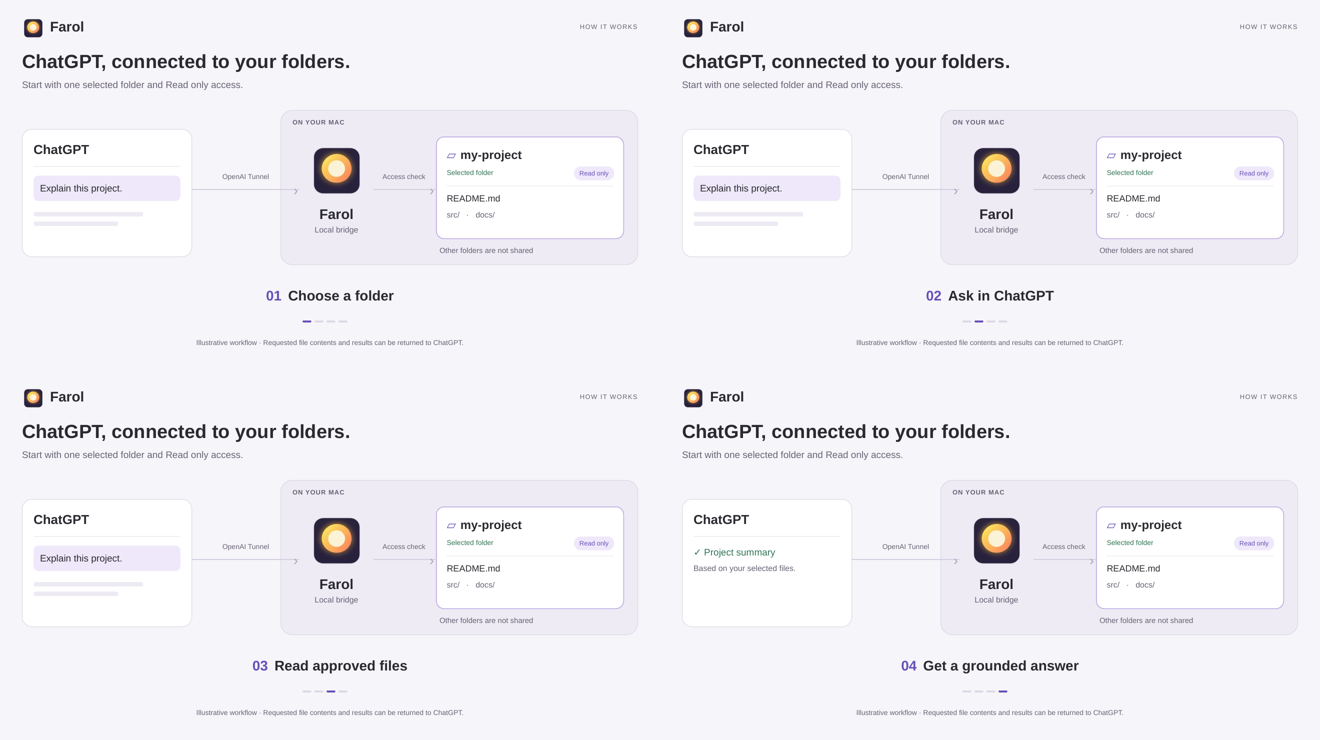
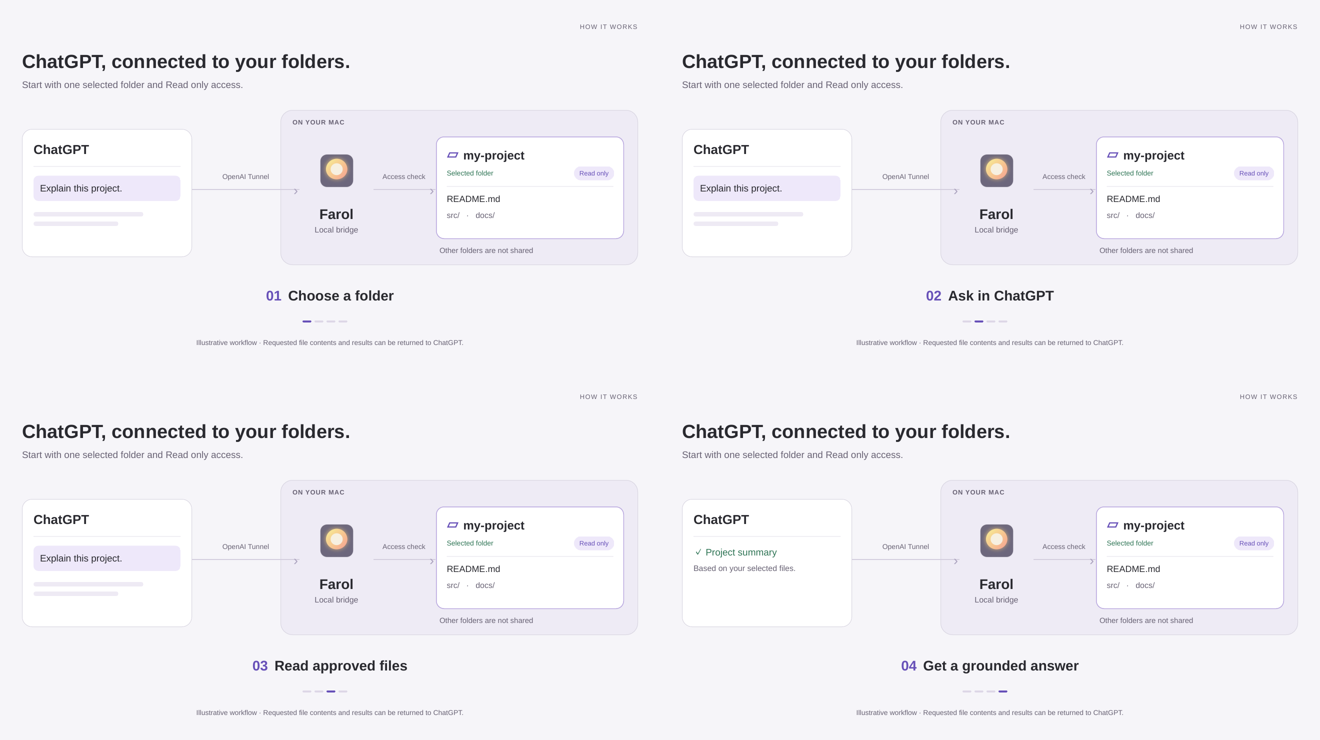
docs: simplify animation branding and expand the home guide

diff --git a/docs/media/workflow/source/workflow.css b/docs/media/workflow/source/workflow.css
@@ -28,21 +28,6 @@ body {
     Arial,
     sans-serif;
 }
-.brand {
-  position: absolute;
-  left: 44px;
-  top: 30px;
-  font-size: 28px;
-  font-weight: 700;
-  height: 48px;
-  line-height: 48px;
-}
-.brand img {
-  width: 44px;
-  height: 44px;
-  vertical-align: middle;
-  margin-right: 12px;
-}
 .tag {
   position: absolute;
   right: 44px;
@@ -139,8 +124,10 @@ h1 {
   text-align: center;
 }
 .bridge img {
-  width: 112px;
-  height: 112px;
+  width: 80px;
+  height: 80px;
+  margin: 16px;
+  opacity: 0.65;
 }
 .bridge strong {
   display: block;

diff --git a/docs/media/onboarding/source/assemble.py b/docs/media/onboarding/source/assemble.py
@@ -44,8 +44,6 @@ def make(name,events,theme=''):
  for i in range(1,9):put(Image.blend(lastim,firstim,i/8),50)
  put(firstim,500,(1130,810))
  path=O/(name+'.gif');frames[0].save(path,save_all=True,append_images=frames[1:],duration=dur,loop=0,optimize=True,disposal=1)
- # Static accessible alternative uses the final ready screen.
- poster=annotate(imgs[events[-1][0]],None);poster.save(O/(name+'.png'))
  g=Image.open(path);length=0
  for i in range(g.n_frames):g.seek(i);length+=g.info['duration']
  data=path.read_bytes();entry={'file':path.name,'bytes':len(data),'sha256':hashlib.sha256(data).hexdigest(),'width':W,'height':H,'frames':g.n_frames,'duration_ms':length,'loop':g.info.get('loop'),'timeline':timeline}
@@ -61,12 +59,4 @@ test=[('v00','test',1800,True),('v01',None,900,False),('v02',None,1600,False),('
 manifest=[]
 for name,events in [('01-sign-in',signin),('02-workspace',workspace),('02b-edits-and-commands',access),('03-create-tunnel',tunnel),('04-restricted-key',key),('05-connect-this-mac',connect),('06-add-plugin',plugin),('07-test-connection',test)]:
  manifest.append(make('Farol-'+name+'-light',events))
-# One identical light asset placed on two GitHub-style page surrounds.
-png=openim('w04');canvas=Image.new('RGB',(1640,690),'white');d=ImageDraw.Draw(canvas);d.rectangle((820,0,1640,690),fill='#0d1117')
-d.text((40,27),'Light GitHub theme',font=font,fill='#24292f');d.text((860,27),'Dark GitHub theme',font=font,fill='#e6edf3')
-mini=png.resize((740,505),Image.Resampling.LANCZOS);canvas.paste(mini,(40,88));canvas.paste(mini,(860,88))
-f2=ImageFont.truetype(str(R/'source/LiberationSans-Regular.ttf'),17);d.text((40,622),'The same light GIF. No theme-specific version required.',font=f2,fill='#57606a');d.text((860,622),'The same light GIF. Its colors and content are unchanged.',font=f2,fill='#9198a1');canvas.save(O/'Farol-light-on-both-GitHub-themes.png')
 (R/'validation.json').write_text(json.dumps({'artifacts':manifest,'layout_issues':json.loads((R/'source/layout-checks.json').read_text())['issues'],'provenance':'Code-rendered UI recreation based on Farol source and inspected service forms. All accounts, IDs, keys, files and outcomes are synthetic. Provider, macOS picker, restricted-key permission summary and connection progress are illustrative; tunnel/key result layouts also use supplied reference captures. No live setup test or credential generation.','source_settings_blob':'0d31a9630e23edb1e62eb22f318aa3e35a45de75','source_shell_blob':'4e0acf3ef93b6f6dbb9351105568274f9d19a761','source_setup_gate_blob':'bbe12899ec6c87cd314a02732d81180e3bf6f986'},indent=2))
-
-# A static permissions reference lets readers inspect the choices without motion.
-openim("p14").save(O / "Farol-plugin-permissions-light.png")

diff --git a/docs/media/onboarding/source/build_screens.py b/docs/media/onboarding/source/build_screens.py
@@ -48,7 +48,7 @@ def shell(content,page='signin',chat=False,overlay=''):
 scenes=[]
 def add(name,part,step,caption,content,page='signin',chat=False,overlay='',note='UI recreation · Synthetic data · Not a live setup test'):
  title={'signin':'1. Sign in to ChatGPT','workspace':'2. Add a workspace','access':'Optional: enable edits and commands'}[part]
- html='<!doctype html><html><head><meta charset="utf-8"><link rel="stylesheet" href="shell.css"><link rel="stylesheet" href="setup.css"><link rel="stylesheet" href="demo.css"></head><body><div class="story"><div class="brand"><img src="farol-sunrise.png">Farol<small>STEP-BY-STEP SETUP</small></div><div class="heading"><h1>'+title+'</h1><span>Follow the cursor</span></div>'+shell(content,page,chat,overlay)+f'<div class="caption"><b>{step}</b>{caption}</div><div class="footer"><span>{note}</span><span>Farol · November 2026</span></div></div></body></html>'
+ html='<!doctype html><html><head><meta charset="utf-8"><link rel="stylesheet" href="shell.css"><link rel="stylesheet" href="setup.css"><link rel="stylesheet" href="demo.css"></head><body><div class="story"><div class="brand"><small>STEP-BY-STEP SETUP</small></div><div class="heading"><h1>'+title+'</h1><span>Follow the cursor</span></div>'+shell(content,page,chat,overlay)+f'<div class="caption"><b>{step}</b>{caption}</div><div class="footer"><span>{note}</span><span>Farol · November 2026</span></div></div></body></html>'
  (R/(name+'.html')).write_text(html);scenes.append(name)
 overview='<section class="setup-welcome"><div class="setup-overview-summary"><strong>0 of 4 steps ready</strong><p class="description">Follow the steps below. Your progress is saved as you go.</p></div><ol>'
 for i,(name,desc) in enumerate([('Sign in','Sign in with your ChatGPT account'),('Workspaces','Choose folders for ChatGPT'),('Connect this Mac','Connect this Mac with your tunnel'),('Add to ChatGPT','Add your app and confirm the connection')]):overview+=f'<li><button class="setup-overview-step"><span class="setup-overview-marker">{i+1}</span><span class="setup-overview-copy"><strong>{name}</strong><span class="description">{desc}</span></span><span class="setup-overview-state">Set up</span></button></li>'

diff --git a/docs/media/onboarding/source/build_remaining.py b/docs/media/onboarding/source/build_remaining.py
@@ -52,7 +52,7 @@ def keysaved(copied=False):
 def resultpanel(title,text,value,copylabel='Copy',sub=''):
  return '<div class="window"><div class="site" style="top:0;height:652px"><div class="illustration-result"><div class="eyebrow">ILLUSTRATIVE RESULT · SYNTHETIC VALUES</div><h2>'+title+'</h2><p>'+text+'</p><div class="copyline">'+value+(sitebtn(copylabel,'copy') if copylabel else '')+'</div><p>'+sub+'</p><p class="result-note">A recreated example, not a live account result.</p></div></div></div>'
 def add(name,title,step,caption,window,note='UI recreation · Synthetic data · Not a live setup test'):
- h='<!doctype html><html><head><meta charset="utf-8"><link rel="stylesheet" href="shell.css"><link rel="stylesheet" href="setup.css"><link rel="stylesheet" href="demo.css"><link rel="stylesheet" href="remaining.css"></head><body><div class="story"><div class="brand"><img src="farol-sunrise.png">Farol<small>STEP-BY-STEP SETUP</small></div><div class="heading"><h1>'+title+'</h1><span>Follow the cursor</span></div>'+window+f'<div class="caption"><b>{step}</b>{caption}</div><div class="footer"><span>{note}</span><span>Farol · November 2026</span></div></div></body></html>'
+ h='<!doctype html><html><head><meta charset="utf-8"><link rel="stylesheet" href="shell.css"><link rel="stylesheet" href="setup.css"><link rel="stylesheet" href="demo.css"><link rel="stylesheet" href="remaining.css"></head><body><div class="story"><div class="brand"><small>STEP-BY-STEP SETUP</small></div><div class="heading"><h1>'+title+'</h1><span>Follow the cursor</span></div>'+window+f'<div class="caption"><b>{step}</b>{caption}</div><div class="footer"><span>{note}</span><span>Farol · November 2026</span></div></div></body></html>'
  (R/(name+'.html')).write_text(h);SCENES.append(name)
 def farolcontent(page,content,completed=2):
  titles={'connection':'Connect this Mac','attachment':'4. Add Farol to ChatGPT'};desc={'connection':'You need two things from OpenAI: a tunnel ID and its key.','attachment':'Create the app in ChatGPT with your tunnel, then test it end to end.'}

diff --git a/docs/media/workflow/source/assemble.py b/docs/media/workflow/source/assemble.py
@@ -41,7 +41,6 @@ for kind, basename in [('read','Farol-how-it-works-light'), ('edit','Farol-read-
         frames.append(image.quantize(palette=palette,dither=Image.Dither.NONE))
     path=ROOT/'output'/f'{basename}.gif'
     frames[0].save(path,save_all=True,append_images=frames[1:],duration=50,loop=0,optimize=True,disposal=1)
-    scenes[3].save(path.with_suffix('.png'))
     gif=Image.open(path);duration=0
     for i in range(gif.n_frames):
         gif.seek(i);duration+=gif.info['duration']
@@ -49,6 +48,15 @@ for kind, basename in [('read','Farol-how-it-works-light'), ('edit','Farol-read-
     for i,scene in enumerate(scenes):
         sheet.paste(scene.resize((660,370)),((i%2)*660,(i//2)*370))
     sheet.save(ROOT/'output'/f'{basename}-contact-sheet.png')
+    decoded=Image.new('RGB',(1320,740),(246,245,249))
+    for stage,at in enumerate((0,4200,7700,11200)):
+        gif.seek(0);elapsed=0
+        for frame in range(gif.n_frames):
+            gif.seek(frame)
+            if elapsed+gif.info['duration']>at: break
+            elapsed+=gif.info['duration']
+        decoded.paste(gif.convert('RGB').resize((660,370)),((stage%2)*660,(stage//2)*370))
+    decoded.save(ROOT/'output'/f'{basename}-decoded-contact-sheet.png')
     manifest.append({'file':path.name,'sha256':hashlib.sha256(path.read_bytes()).hexdigest(),'bytes':path.stat().st_size,'dimensions':[W,H],'frames':gif.n_frames,'duration_ms':duration,'loop':0,'stages':4,'fps_before_frame_coalescing':FPS})
 (ROOT/'validation.json').write_text(json.dumps({'artifacts':manifest,'illustrative':True,'live_acceptance':False},indent=2)+'\n')
 print(json.dumps(manifest,indent=2))

diff --git a/docs/media/workflow/source/build_scenes.py b/docs/media/workflow/source/build_scenes.py
@@ -14,7 +14,7 @@ for kind in ('read', 'edit'):
         chat = ('<div class="response">✓ File updated<small>greeting.ts · Your requested change is saved.</small></div>' if edit else '<div class="response">✓ Project summary<small>Based on your selected files.</small></div>') if stage == 3 else ('<div class="bubble">Fix the typo in greeting.ts.</div>' if edit else '<div class="bubble">Explain this project.</div>') + '<div class="ghost"></div><div class="ghost second"></div>'
         file = '<div class="file">greeting.ts<div class="code' + (' done' if stage >= 2 else '') + '">return &quot;' + ('Hello' if stage >= 2 else 'Helo') + '&quot;;</div></div>' if edit else '<div class="file">README.md<small>src/ &nbsp; · &nbsp; docs/</small></div>'
         html = f'''<!doctype html><html lang="en"><head><meta charset="utf-8"><link rel="stylesheet" href="workflow.css"></head><body>
-<div class="brand"><img src="farol-sunrise.png" alt="">Farol</div><div class="tag">{'READ + EDIT' if edit else 'HOW IT WORKS'}</div>
+<div class="tag">{'READ + EDIT' if edit else 'HOW IT WORKS'}</div>
 <h1>{title}</h1><div class="subtitle">{subtitle}</div>
 <div class="mac"></div><div class="mac-label">ON YOUR MAC</div>
 <div class="link a"></div><div class="link b"></div><div class="link-label a">OpenAI Tunnel</div><div class="link-label b">Access check</div>

diff --git a/docs/media/onboarding/verify.py b/docs/media/onboarding/verify.py
@@ -37,14 +37,9 @@ for entry in manifest['artifacts']:
         if event['target']:
             x, y = event['target_center']
             assert 40 <= x <= 1280 and 145 <= y <= 797, event
-    poster = path.with_suffix('.png')
-    assert Image.open(poster).size == (1320, 900)
     report['artifacts'].append({'file': path.name, 'frames': im.n_frames,
                                 'duration_ms': duration, 'sha256': entry['sha256'],
                                 'minimum_mean_luminance': round(minimum_mean_luminance, 2)})
-permissions = Image.open(ROOT / 'output/Farol-plugin-permissions-light.png')
-permissions.load()
-assert permissions.size == (1320, 900)
 fonts = list((ROOT / 'source').glob('*.ttf'))
 assert {p.name for p in fonts} == {'LiberationSans-Regular.ttf', 'LiberationSans-Bold.ttf'}
 for path in fonts:

diff --git a/docs/media/workflow/verify.py b/docs/media/workflow/verify.py
@@ -24,7 +24,6 @@ for entry in manifest['artifacts']:
         duration+=image.info['duration']
     assert not ImageChops.difference(first,rgb).getbbox(), 'Loop endpoints differ'
     assert duration==entry['duration_ms']==15000
-    assert Image.open(path.with_suffix('.png')).size==(1320,740)
     checks.append({'file':path.name,'all_frames_decoded':image.n_frames,'duration_ms':duration,'minimum_mean_luminance':round(min_luma,2),'identical_loop_endpoints':True})
 assert (ROOT/'licenses/Liberation-Sans-OFL.txt').is_file()
 fonts=[]

diff --git a/README.md b/README.md
@@ -154,6 +154,38 @@ Compare the tool result with your local file. You have now tried the core workfl
 <a id="privacy-and-security"></a>
 <a id="choose-folder-access"></a>
 
+## Everyday use
+
+### Ask a specific question
+
+Name the workspace and the file or topic you want to inspect. For example: “In the Farol sample workspace, read hello.txt and explain what it says. Do not change anything.” For a project, try “Read the README and explain how the project is organized,” or “Find the notes about connection setup and quote the relevant section.” Review the returned files and tool results alongside the answer.
+
+### Make an edit you can verify
+
+Keep a backup or a version-controlled baseline for work you care about. Ask ChatGPT to describe the intended change first. In **Setup → Workspaces**, select **Read & write** only for the folder that needs edits and wait for its saved access check. Then request a small, specific supported edit and inspect the local file or diff. ChatGPT's confirmation policy remains a separate control; a model's success message alone does not prove the file changed.
+
+### Change or remove a workspace
+
+Open **Setup → Workspaces** to review each saved folder path, Access choice and current **✓ Works** result. Choose **Read only** to narrow file access, or **Remove [workspace name]** to remove its grant; wait for the confirmed result. Removing a workspace keeps its files on disk. Removing the last workspace leaves no file access and blocks continuing the guided setup until a folder is added and checked.
+
+If a folder moved or a volume was reconnected, inspect the reported cause. For **WORKSPACE_ROOT_CHANGED**, preserve pending work first, then deliberately remove and re-add the folder and review its new grant. A path string alone does not establish that the same physical folder is still selected. If an action is unresolved, observe that original action before changing access.
+
+## If something gets stuck
+
+Start with the state Farol actually shows. Record the version and the exact error; use the matching row below before changing settings.
+
+| What you see                                        | What to do first                                                                                                                                                                                                                                 |
+| --------------------------------------------------- | ------------------------------------------------------------------------------------------------------------------------------------------------------------------------------------------------------------------------------------------------ |
+| **macOS refuses to open Farol**                     | Keep the warning. The public app is unsigned and not notarized, and first installation remains under qualification. A checksum does not resolve that installation issue; do not remove quarantine or disable Gatekeeper.                         |
+| **Connection helper needed**                        | Read the cause shown in Connect this Mac. Current source uses the helper bundled with Farol; installing an unrelated tunnel-client does not repair its resources. Retain the diagnostic and follow the accepted-release recovery path.           |
+| **Tunnel or key refused**                           | Check the intended ChatGPT workspace and matching tunnel ID. Use a Restricted key with Tunnels Read + Use. If **Key saved** appears, the blank key field is intentional; keep the saved key.                                                     |
+| **Farol is connected, but ChatGPT cannot reach it** | Select the plugin attached to the same tunnel and Farol instance. Reuse that plugin rather than creating another. A local Connected status alone does not establish the ChatGPT attachment.                                                      |
+| **Workspace access refused**                        | Review the saved physical path, Access choice, exclusions and **✓ Works**. Use **Check access** if offered. Every listed workspace needs a current check. Broader access is not a fix for an unavailable tool.                                   |
+| **A result is pending or unknown**                  | Open **Review unresolved actions** when offered, then inspect **Unresolved actions** and use **Refresh status** to observe the original operation. Do not repeat Connect, Test or an edit, delete state, or change tunnels to clear uncertainty. |
+| **An update is blocked**                            | Read the stated blocker. Pending work, an active session or inconsistent installation evidence can block an update. Settle the original work; do not replace the app or delete its journals.                                                     |
+
+The detailed troubleshooting and recovery references at the bottom cover cases that need more investigation. The first response is to inspect the original state, not to broaden access or repeat an uncertain operation.
+
 ## Best practices
 
 ### Start small and keep control
@@ -183,7 +215,14 @@ Choose **Connect** or **Test in ChatGPT** once and observe the original result. 
 
 ## Updates and help
 
-Closing the window leaves Farol running; **Command+Q** quits it. Use the updater for an existing installation already set up for trusted updates.
+Closing the window leaves Farol running; **Command+Q** quits it. For an existing installation already set up for trusted updates:
+
+1. Open **Settings → General → Check for updates** and review the installed version, offered version and release notes.
+2. If an update is offered, choose **Download Update** and wait for download and verification.
+3. Finish active work and review open ChatGPT sessions. When ready, choose **Install and Relaunch** once.
+4. After relaunch, check the displayed version and connection status. Inspect any request for a current workspace or attachment check before resuming work.
+
+A manually copied ZIP app may lack an accepted update baseline. An existing installation can also be newer than the public release; that does not call for a downgrade. For an interrupted update, open **Settings → General → Update recovery…** and use only the action offered for the recorded operation. Preserve the retained predecessor until recovery is confirmed.
 
 [Update Farol](docs/guides/updates.md) · [Connection troubleshooting](docs/guides/troubleshooting.md) · [Interrupted setup and recovery](docs/guides/recovery.md) · [Uninstall safely](docs/guides/uninstall.md)
 

diff --git a/docs/media/onboarding/README.md b/docs/media/onboarding/README.md
@@ -1,12 +1,12 @@
 # Farol onboarding animations
 
-Eight short, light-theme tutorials with synthetic data, a moving cursor, click rings, and PNG alternatives. The same light asset is intended for both GitHub page themes. These are **code-rendered UI recreations, not screen recordings or live acceptance-test evidence**.
+Eight short, light-theme tutorials with synthetic data, a moving cursor, click rings, and complete written instructions. The same light asset is intended for both GitHub page themes. These are **code-rendered UI recreations, not screen recordings or live acceptance-test evidence**.
 
 ## Build
 
 The build is local and makes no network requests. It does not open Farol, sign in, create a key, create a tunnel, install a plugin, or send a chat message.
 
-Requirements: Python 3.12, Poppler (`pdftoppm`), and the Pango / Fontconfig libraries required by WeasyPrint. On Debian/Ubuntu the OS packages are `poppler-utils libpango-1.0-0 libpangoft2-1.0-0 libharfbuzz0b`. On macOS, install Poppler and Pango using your usual package manager.
+Requirements: Python 3.12 or newer, Poppler (`pdftoppm`), and the Pango / Fontconfig libraries required by WeasyPrint. On Debian/Ubuntu the OS packages are `poppler-utils libpango-1.0-0 libpangoft2-1.0-0 libharfbuzz0b`. On macOS, install Poppler and Pango using your usual package manager.
 
 ```sh
 python3 -m venv .venv
@@ -15,7 +15,7 @@ python -m pip install -r requirements.txt
 python build.py
 ```
 
-The reference build uses Python 3.12.14 and Poppler 26.05.0. The listed Python dependencies are pinned, but some transitive dependencies remain unconstrained; this is not a complete dependency lock. Pixel-level output can change with different Poppler, Pango, or Fontconfig versions. `validation.json` records the supplied GIF hashes and event timelines. `python verify.py` validates the output against that manifest, decodes every GIF frame, checks click bounds, verifies local font licenses, checks a light outer canvas and scene luminance in every frame, checks eight specified text/background contrast pairs, and scans publishable text for common credential/private-data patterns. These are scoped checks, not a general secret-scanner guarantee or full accessibility audit.
+The current rebuild uses Python 3.14.7 and Poppler 26.04.0; the original reference used Python 3.12.14 and Poppler 26.05.0. The listed Python dependencies are pinned, but some transitive dependencies remain unconstrained; this is not a complete dependency lock. Pixel-level output can change with different Poppler, Pango, or Fontconfig versions. `validation.json` records the supplied GIF hashes and event timelines. `python verify.py` validates the output against that manifest, decodes every GIF frame, checks click bounds, verifies local font licenses, checks a light outer canvas and scene luminance in every frame, checks eight specified text/background contrast pairs, and scans publishable text for common credential/private-data patterns. These are scoped checks, not a general secret-scanner guarantee or full accessibility audit.
 
 Pipeline:
 
@@ -28,7 +28,7 @@ Pipeline:
 
 ## Reader placement
 
-The repository README is the complete reader journey: both workflow GIFs are visible, followed by requirements, current installation limits, all eight setup GIFs with written steps, a first-file exercise and best practices. The owner-selected presentation keeps animations inline rather than behind disclosure controls. [Focused connection reference](../../start/setup.md) repeats the setup steps with visible GIFs for readers arriving from a support link. The optional access step remains explicitly optional even though its animation is visible. Static PNGs remain source-package alternatives; they are not the default illustrations on these reader pages. Keep the reproduction scripts and license notices beside these media assets. The setup series is not installation acceptance evidence.
+The repository README is the complete reader journey: both workflow GIFs are visible, followed by requirements, current installation limits, all eight setup GIFs with written steps, a first-file exercise and best practices. The owner-selected presentation keeps animations inline rather than behind disclosure controls. [Focused connection reference](../../start/setup.md) repeats the setup steps with visible GIFs for readers arriving from a support link. The optional access step remains explicitly optional even though its animation is visible. Standalone PNG posters are no longer exported or committed; written steps accompany every GIF. Keep the reproduction scripts and license notices beside these media assets. The setup series is not installation acceptance evidence.
 
 ## Tutorials
 
@@ -43,7 +43,7 @@ The repository README is the complete reader journey: both workflow GIFs are vis
 | `output/Farol-06-add-plugin-light.gif`          | Add custom MCP server, Tunnel, No authentication, risk warning, Connect, find plugin, Manage, review Permissions. |
 | `output/Farol-07-test-connection-light.gif`     | Run one test, wait, return, confirm success.                                                                      |
 
-Each GIF has a same-basename PNG poster. `output/Farol-plugin-permissions-light.png` is an additional static view of all four permission choices with the default unchanged. `Farol-light-on-both-GitHub-themes.png` compares the identical light asset on light and dark page backgrounds. Motion uses 50 ms frames with longer reading pauses and loops indefinitely. Prefer collapsed README sections or static links so users can choose which animation to open.
+The published tutorials are GIF-only, with complete written steps in the reader guides. Decorative top-left branding is omitted so that the instructions and demonstrated UI remain the focus. Source images, licensed fonts and verification data remain rebuild inputs; rendered scene PNGs are temporary build intermediates.
 
 ## Accuracy and intentionally omitted details
 

diff --git a/docs/media/workflow/README.md b/docs/media/workflow/README.md
@@ -6,15 +6,15 @@ Two short light-theme diagrams explain the product before the detailed onboardin
 
 - `output/Farol-how-it-works-light.gif`: a read-only request travels from ChatGPT through OpenAI Tunnel to Farol, which reads the selected workspace; the results return to ChatGPT.
 - `output/Farol-read-and-edit-light.gif`: a specific typo correction is made in a workspace that already has Read & write access; the result returns to ChatGPT.
-- Each GIF has a same-name PNG poster for a static alternative. Source-scene contact sheets show its four scenes and are regenerated by the build. The `*-decoded-contact-sheet.png` files are manually captured review evidence for the committed GIFs, not build outputs. After changing an animation, regenerate these sheets from the new GIF and review them before publishing.
+- GIFs are the published illustrations. The build does not export standalone PNG posters. Source-scene and decoded-frame PNG contact sheets remain visual QA evidence; regenerate and inspect both after animation changes.
 
-Both GIFs are 1320 × 740, loop every 15 seconds, and have identical first and final frames. Motion is rendered at 20 fps, with identical frames coalesced into longer reading pauses. The same light GIF is suitable on either GitHub page theme. The owner-selected README presentation embeds both GIFs directly, with no disclosure step. PNG posters remain source-package alternatives.
+Both GIFs are 1320 × 740, loop every 15 seconds, and have identical first and final frames. Motion is rendered at 20 fps, with identical frames coalesced into longer reading pauses. The same light GIF is suitable on either GitHub page theme. The owner-selected README presentation embeds both GIFs directly, with no disclosure step. The original icon and fonts remain rebuild inputs.
 
 Read-only access prevents edits; it does not prevent requested file contents from being returned to ChatGPT. The edit illustration does not grant access or depict a universal confirmation policy. Action confirmations continue to depend on the user's ChatGPT settings and applicable rules.
 
 ## Rebuild
 
-Use Python 3.12 and install Poppler (`pdftoppm`) plus Pango and Fontconfig. The reference build uses Poppler 26.05.0. Python packages are listed in `requirements.txt`.
+Use Python 3.12 or newer and install Poppler (`pdftoppm`) plus Pango and Fontconfig. The current rebuild uses Python 3.14.7 and Poppler 26.04.0; the original reference used Poppler 26.05.0. Python packages are listed in `requirements.txt`.
 
 ```sh
 python3 -m venv .venv
@@ -27,7 +27,7 @@ The build itself makes no network or service calls. It never opens Farol, reads 
 
 Edit `source/build_scenes.py` for the story and text, `source/workflow.css` for layout and colors, and `source/assemble.py` for timing and moving request/result dots. The render and GIF assembly are deterministic for a fixed rendering stack; system font/rasterizer differences may change output pixels.
 
-`python verify.py` checks the GIF hashes, decodes every frame, verifies size, duration, light theme, loop endpoints, static poster sizes, and the one-page/no-page-overflow HTML layout checks. It is an artifact check, not a runtime test or full accessibility/security audit. Visual inspection of the final decoded GIF scenes remains required.
+`python verify.py` checks the GIF hashes, decodes every frame, verifies size, duration, light theme, loop endpoints, and the one-page/no-page-overflow HTML layout checks. It is an artifact check, not a runtime test or full accessibility/security audit. Visual inspection of the final decoded GIF scenes remains required.
 
 ## Sources and licensing
 
